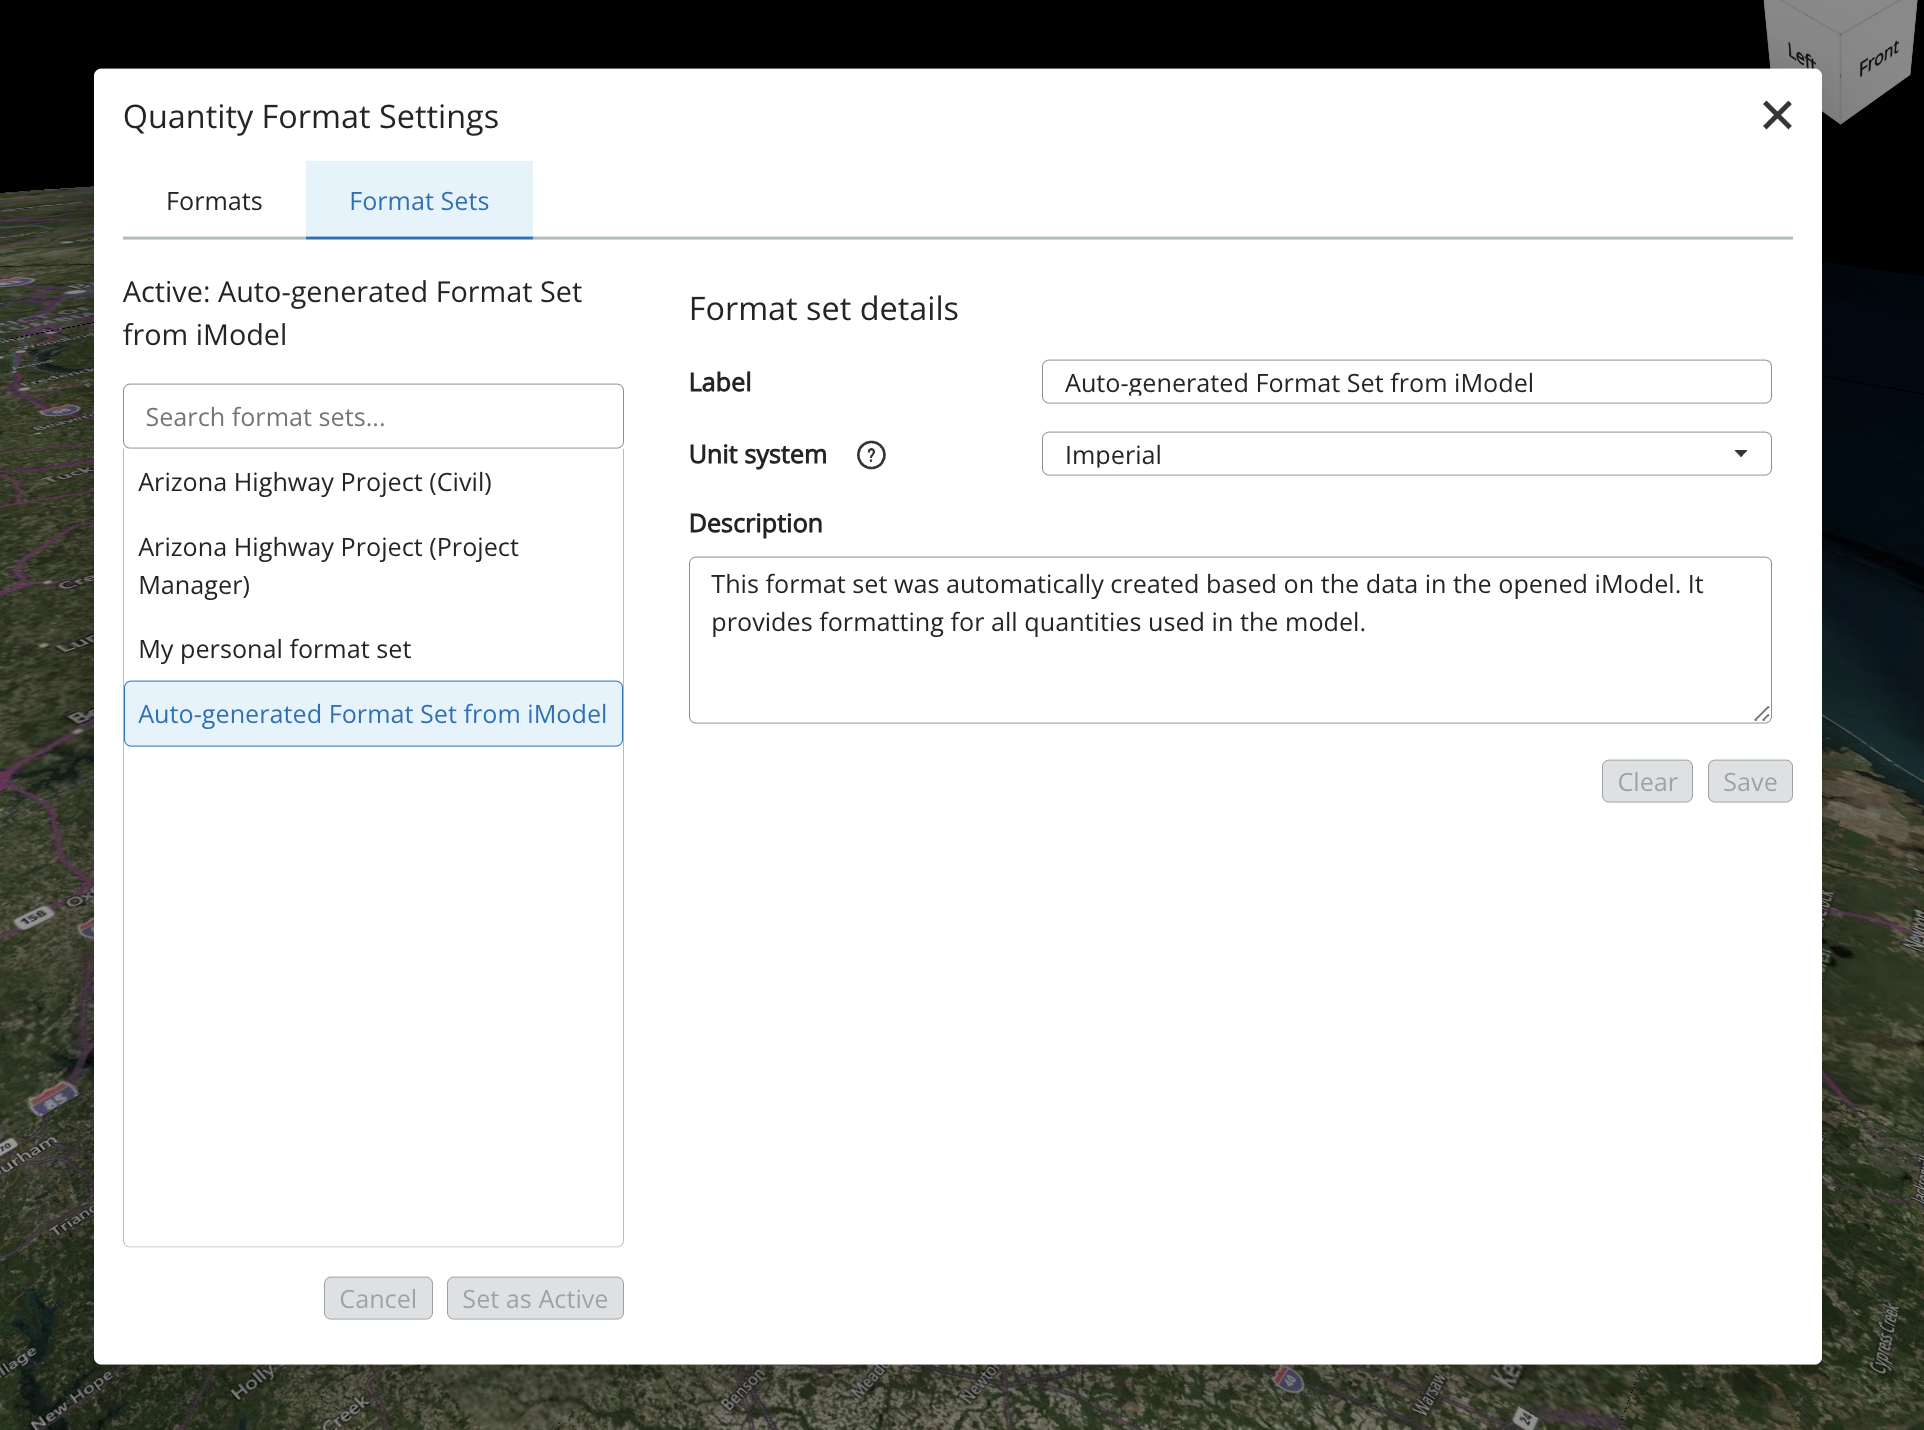
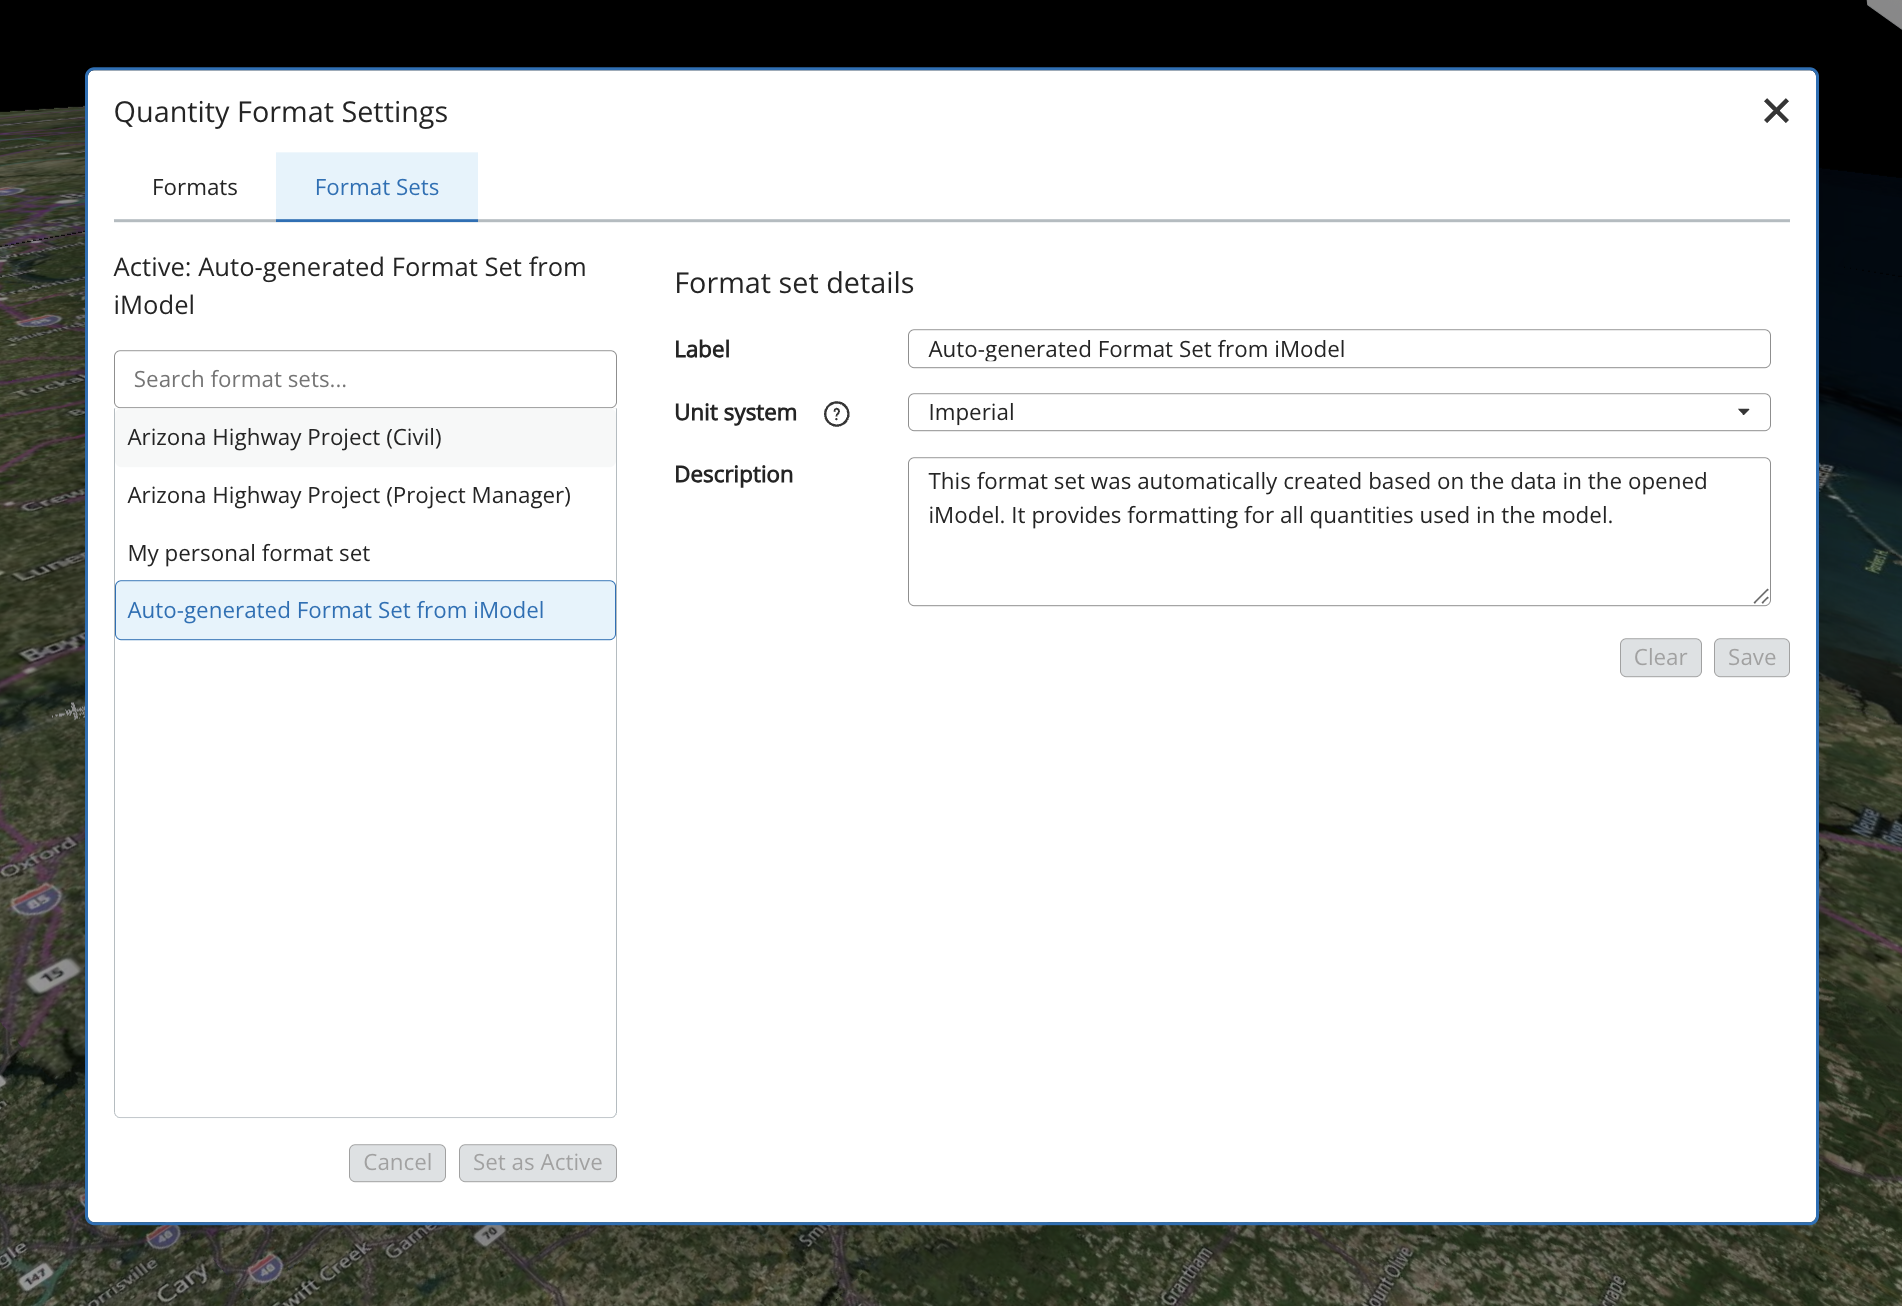
expand input field a bit more

diff --git a/packages/itwin/quantity-formatting/src/components/quantityformat/FormatSetPanel.tsx b/packages/itwin/quantity-formatting/src/components/quantityformat/FormatSetPanel.tsx
@@ -142,7 +142,7 @@ export const FormatSetPanel: React.FC<FormatSetPanelProps> = ({ formatSet, edita
         />
       </Flex>
 
-      <Flex className="quantityFormat--formatSetPanel-inputColumn">
+      <Flex className="quantityFormat--formatSetPanel-inputRow quantityFormat--formatSetPanel-inputRow-descr">
         <Label htmlFor={descriptionInputId}>{translate("QuantityFormat:labels.description")}</Label>
         <Textarea
           id={descriptionInputId}

diff --git a/packages/itwin/quantity-formatting/src/components/quantityformat/FormatPanel.scss b/packages/itwin/quantity-formatting/src/components/quantityformat/FormatPanel.scss
@@ -217,8 +217,12 @@
   flex-direction: row;
 }
 
+.quantityFormat--formatSetPanel-inputRow-descr {
+  align-items: flex-start;
+}
+
 .quantityFormat--formatSetPanel-inputRow > label {
-  flex: 0 0 30%; /* Fixed 30% width for all labels in input rows */
+  flex: 0 0 19%; /* Fixed 19% width for all labels in input rows */
   display: flex;
   align-items: center;
   margin: 0;
